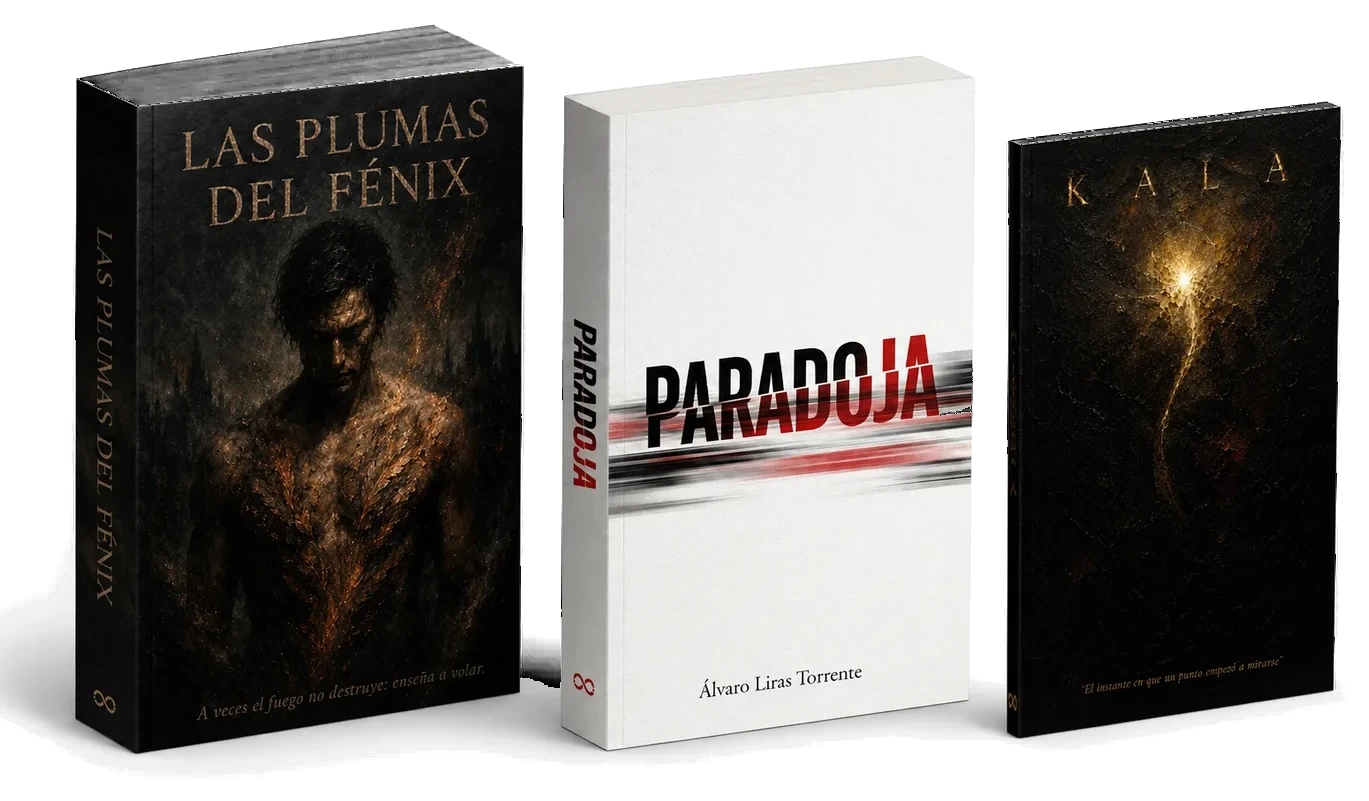
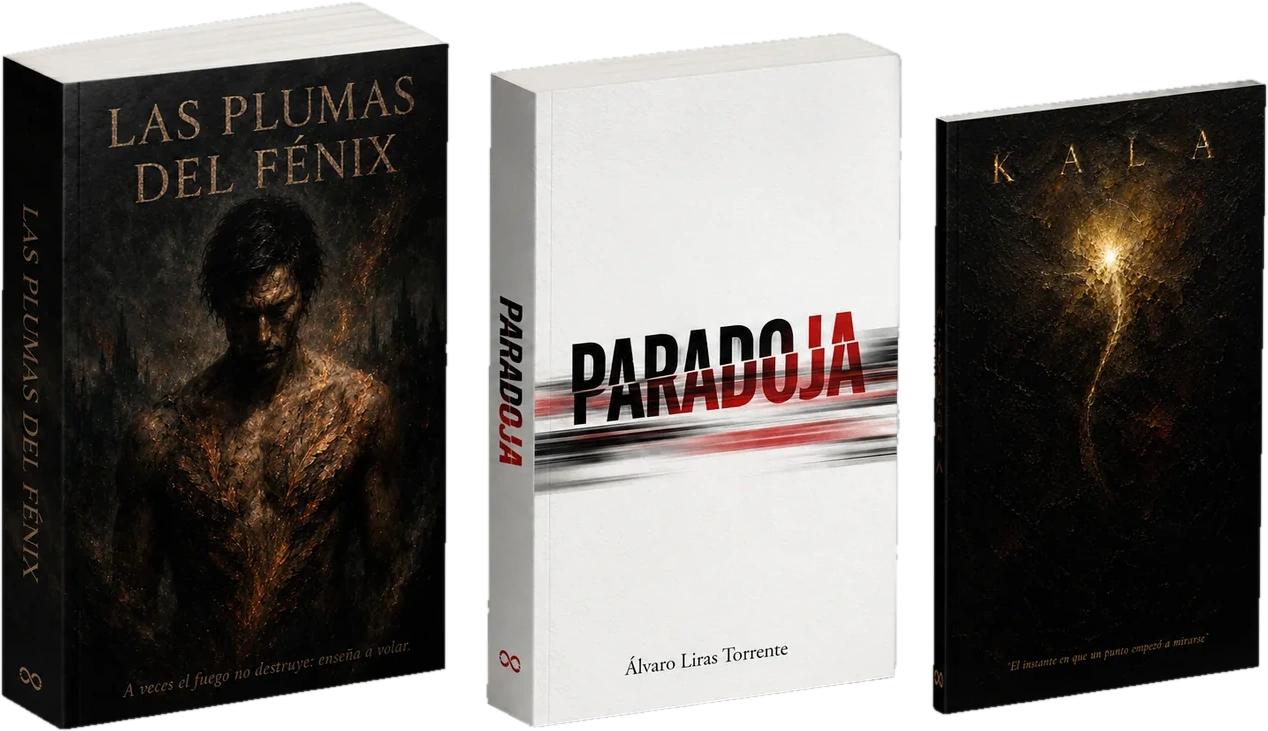
Add files via upload

diff --git a/index.html b/index.html
@@ -150,7 +150,7 @@
   .book.right .cover{order:2}
   .book.right .content{order:1}
   .cover{position:sticky;top:96px}
-  .cover img{filter:drop-shadow(0 30px 50px rgba(0,0,0,.55));width:min(100%,460px)}
+  .cover img{filter:drop-shadow(0 30px 50px rgba(0,0,0,.55));width:min(100%,380px)}
   .book.light .cover img{filter:drop-shadow(0 30px 50px rgba(0,0,0,.25))}
   .book h2{font-size:clamp(2.2rem,4.6vw,4rem);margin-bottom:18px}
   .book h2 em,.book h2 i{font-style:italic;color:var(--fucsia)}
@@ -217,7 +217,7 @@
 
   /* ---------- PARADOJA · huida ---------- */
   .book.paradoja{background:var(--papel)}
-  .book.paradoja .cover img{width:min(100%,520px);margin-left:auto}
+  .book.paradoja .cover img{width:min(100%,400px);margin-left:auto}
   .book.paradoja h2{font-size:clamp(2.4rem,5.4vw,4.8rem)}
   .book.paradoja .claim{color:var(--tinta);font-size:clamp(1.5rem,2.6vw,2.2rem);max-width:18ch}
   .book.paradoja .claim em{color:var(--fucsia);font-style:italic}
@@ -348,6 +348,11 @@
   footer .legal a{text-decoration:underline}
 
   /* ---------- LIGHTBOX ---------- */
+  /* Lupa al pasar el ratón (solo ratón, no táctil) */
+  #lupa{position:fixed;left:0;top:0;width:210px;height:210px;border-radius:50%;pointer-events:none;z-index:900;opacity:0;transform:scale(.85);transition:opacity .18s ease,transform .18s var(--ease-out);background-repeat:no-repeat;background-color:#111;box-shadow:0 0 0 2px rgba(255,255,255,.85),0 18px 44px rgba(0,0,0,.55)}
+  #lupa.on{opacity:1;transform:scale(1)}
+  .js-lupa .cover img,.js-lupa .gitem img,.js-lupa .fs-img.active img,.js-lupa .hero .trio img,.js-lupa .trio-small{cursor:zoom-in}
+  @media (hover:none),(pointer:coarse){#lupa{display:none}}
   #lightbox{position:fixed;inset:0;background:rgba(0,0,0,.94);display:none;align-items:center;justify-content:center;z-index:9999;padding:20px;cursor:zoom-out}
   #lightbox.open{display:flex;animation:lbin .25s ease}
   @keyframes lbin{from{opacity:0}to{opacity:1}}
@@ -369,7 +374,6 @@
   /* ---------- RESPONSIVE ---------- */
   @media(max-width:1024px){
     .book.kala .grid{grid-template-columns:minmax(0,.9fr) minmax(0,1.1fr);gap:48px}
-    .fases-grid{gap:40px}
   }
   @media(max-width:860px){
     section,.book{padding:80px 0}
@@ -445,7 +449,7 @@
     </div>
     <div class="trio fade">
       <div class="trio-wrap">
-        <img src="assets/covers/trio-sinfondo.webp" width="1369" height="801" fetchpriority="high" alt="Los tres libros del Tríptico Bipolar: Las plumas del Fénix, Paradoja y Kala"
+        <img src="assets/covers/trio-sinfondo.webp" width="1268" height="731" fetchpriority="high" alt="Los tres libros del Tríptico Bipolar: Las plumas del Fénix, Paradoja y Kala"
              onerror="this.outerHTML='&lt;div class=\'ph\'&gt;[ Render de los 3 libros — assets/covers/trio.webp ]&lt;/div&gt;'">
       </div>
     </div>
@@ -487,7 +491,7 @@
   <div class="wrap">
     <div class="grid">
       <div class="cover reveal">
-        <img src="assets/covers/fenix-sinfondo.webp" width="547" height="563" loading="lazy" decoding="async" alt="Portada de Las plumas del Fénix"
+        <img src="assets/covers/fenix-sinfondo.webp" width="353" height="545" loading="lazy" decoding="async" alt="Portada de Las plumas del Fénix"
              onerror="this.outerHTML='&lt;div class=\'ph\'&gt;[ Portada — assets/covers/fenix.webp ]&lt;/div&gt;'">
       </div>
       <div class="content">
@@ -542,7 +546,7 @@
   <div class="wrap">
     <div class="grid">
       <div class="cover reveal" id="paradojaCover">
-        <img src="assets/covers/paradoja-sinfondo.webp" width="563" height="563" loading="lazy" decoding="async" alt="Portada de Paradoja"
+        <img src="assets/covers/paradoja-sinfondo.webp" width="362" height="530" loading="lazy" decoding="async" alt="Portada de Paradoja"
              onerror="this.outerHTML='&lt;div class=\'ph\'&gt;[ Portada — assets/covers/paradoja.webp ]&lt;/div&gt;'">
       </div>
       <div class="content">
@@ -579,7 +583,7 @@
   <div class="wrap">
     <div class="grid">
       <div class="cover reveal">
-        <img src="assets/covers/kala-sinfondo.webp" width="575" height="563" loading="lazy" decoding="async" alt="Portada de Kala"
+        <img src="assets/covers/kala-sinfondo.webp" width="310" height="527" loading="lazy" decoding="async" alt="Portada de Kala"
              onerror="this.outerHTML='&lt;div class=\'ph\'&gt;[ Portada — assets/covers/kala.webp ]&lt;/div&gt;'">
       </div>
       <div class="content">
@@ -650,7 +654,7 @@
       </div>
     </div>
     <div class="nexus-img reveal">
-      <img class="trio-small" src="assets/covers/trio-sinfondo.webp" width="1369" height="801" loading="lazy" decoding="async" alt="Los tres libros del Tríptico Bipolar">
+      <img class="trio-small" src="assets/covers/trio-sinfondo.webp" width="1268" height="731" loading="lazy" decoding="async" alt="Los tres libros del Tríptico Bipolar">
     </div>
   </div>
 </section>
@@ -920,6 +924,31 @@
       .finally(function(){ btnSubmit.disabled=false; btnSubmit.textContent=txt; pintaBoton(); });
   });
 </script>
+<div id="lupa" aria-hidden="true"></div>
+<script>(function(){
+  if(!matchMedia('(hover:hover) and (pointer:fine)').matches) return;
+  var L=document.getElementById('lupa'), Z=2.6, R=105, cur=null;
+  document.documentElement.classList.add('js-lupa');
+  var SEL='.cover img,.gitem img,.fs-img.active img,.hero .trio img,.trio-small';
+  function hi(img){ var a=img.closest('a.gitem'); return a?a.getAttribute('href'):(img.currentSrc||img.src); }
+  function off(){ L.classList.remove('on'); cur=null; }
+  document.addEventListener('mousemove',function(e){
+    if(document.getElementById('lightbox').classList.contains('open')){ off(); return; }
+    var img=null, els=document.elementsFromPoint(e.clientX,e.clientY);
+    for(var i=0;i<els.length;i++){ if(els[i].matches && els[i].matches(SEL)){ img=els[i]; break; } }
+    if(!img){ off(); return; }
+    var r=img.getBoundingClientRect();
+    var x=(e.clientX-r.left)/r.width, y=(e.clientY-r.top)/r.height;
+    if(cur!==img){ cur=img; L.style.backgroundImage='url("'+hi(img)+'")'; }
+    var bw=r.width*Z, bh=r.height*Z;
+    L.style.backgroundSize=bw+'px '+bh+'px';
+    L.style.backgroundPosition=(R-x*bw)+'px '+(R-y*bh)+'px';
+    L.style.left=(e.clientX-R)+'px'; L.style.top=(e.clientY-R)+'px';
+    L.classList.add('on');
+  },{passive:true});
+  document.addEventListener('mouseleave',off);
+  window.addEventListener('scroll',off,{passive:true});
+})();</script>
 <div id="lightbox" role="dialog" aria-modal="true" aria-label="Imagen ampliada"><button type="button" class="lbclose" aria-label="Cerrar">&times;</button><img alt=""></div>
 <script>(function(){var lb=document.getElementById("lightbox"),img=lb.querySelector("img");document.querySelectorAll(".gitem").forEach(function(a){a.addEventListener("click",function(e){e.preventDefault();img.src=a.getAttribute("href");lb.classList.add("open");});});function c(){lb.classList.remove("open");img.src="";}lb.addEventListener("click",c);document.addEventListener("keydown",function(e){if(e.key==="Escape")c();});})();</script>
 <script>(function(){var hb=document.getElementById("hambBtn"),nl=document.getElementById("navLinks");if(hb&&nl){hb.addEventListener("click",function(){var o=nl.classList.toggle("open");hb.classList.toggle("open",o);hb.setAttribute("aria-expanded",o);});nl.querySelectorAll("a").forEach(function(a){a.addEventListener("click",function(){nl.classList.remove("open");hb.classList.remove("open");hb.setAttribute("aria-expanded","false");});});}var br=document.querySelector(".topnav .brand");if(br){br.addEventListener("click",function(e){e.preventDefault();window.scrollTo({top:0,behavior:"smooth"});});}})();</script>
